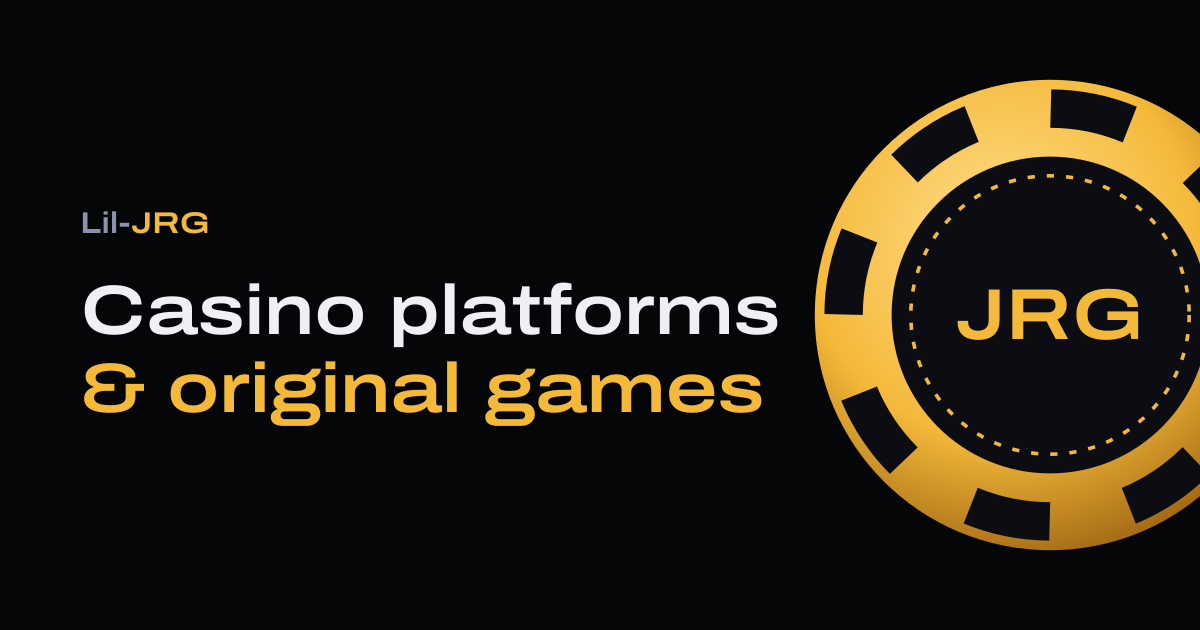
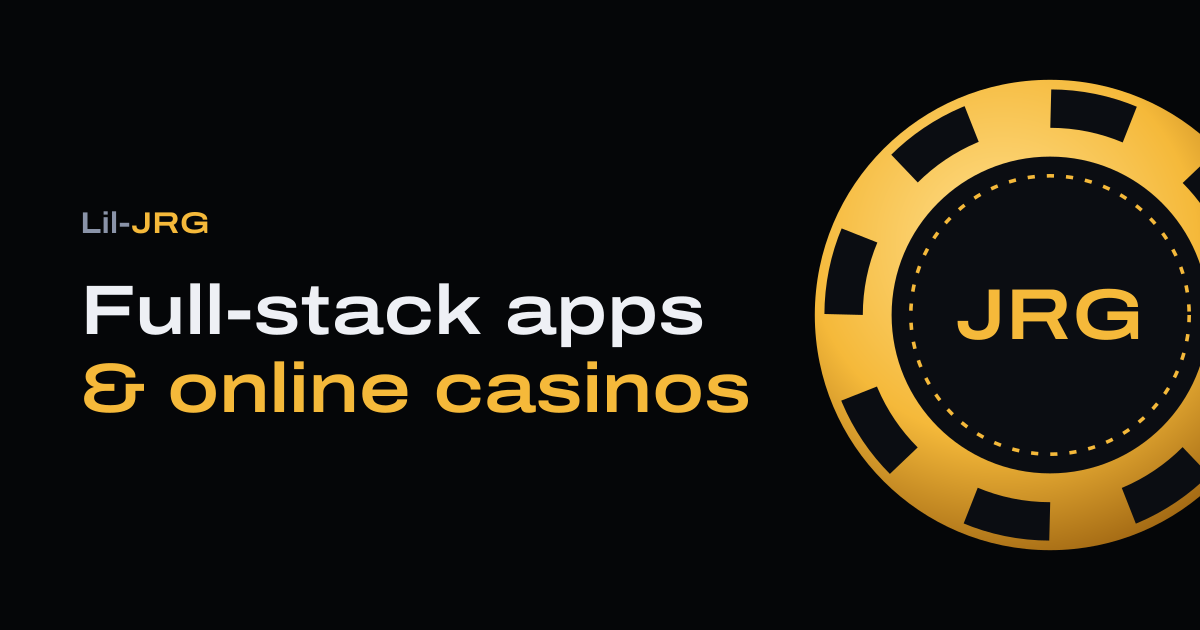
Profile README: full-stack first, casinos as the specialty

Changed region(s): [[0.0617, 0.4524, 0.6475, 0.5429], [0.185, 0.573, 0.6475, 0.6937]]

diff --git a/README.md b/README.md
@@ -1,7 +1,7 @@
-<a href="https://lil-jrg.dev"><img src="assets/banner.png" alt="Lil-JRG: casino platforms and original games" width="100%"></a>
+<a href="https://lil-jrg.dev"><img src="assets/banner.png" alt="Lil-JRG: full-stack apps and online casinos" width="100%"></a>
 
 <p align="center">
-  <a href="https://lil-jrg.dev"><img src="https://readme-typing-svg.demolab.com?font=Archivo&weight=600&size=22&duration=2800&pause=900&color=F5B93A&center=true&vCenter=true&width=520&lines=Original+casino+games;Rounds+players+can+verify;Crypto+cashier+and+live+chat;Admin+panels+your+team+can+run" alt="Original casino games, rounds players can verify, crypto cashier and live chat, admin panels"></a>
+  <a href="https://lil-jrg.dev"><img src="https://readme-typing-svg.demolab.com?font=Archivo&weight=600&size=22&duration=2800&pause=900&color=F5B93A&center=true&vCenter=true&width=520&lines=Full-stack+web+apps;APIs+and+realtime+features;Admin+panels+and+dashboards;Original+casino+games" alt="Full-stack web apps, APIs and realtime features, admin panels and dashboards, original casino games"></a>
 </p>
 
 <p align="center">
@@ -10,9 +10,9 @@
   <a href="https://x.com/lil_jrg"><img src="https://img.shields.io/badge/X-@lil__jrg-EEF0F5?style=for-the-badge&logo=x&logoColor=EEF0F5&labelColor=0B0D12" alt="X: @lil_jrg"></a>
 </p>
 
-I build online casinos end to end: original games, the crypto cashier, live chat and the admin panel behind them.
+Full-stack developer. I build web apps end to end, from the interface to the API and the database: CRMs, ERPs, booking sites, dashboards and realtime features.
 
-Right now I'm building [TreasureGG](https://treasure.gg) front to back, including its Case Battles, Case Opening, Mines, Blackjack and Keno. You can play a Mines round and use the live chat on [my portfolio](https://lil-jrg.dev).
+Lately most of my work is online casinos. Right now I'm building [TreasureGG](https://treasure.gg) front to back: its original games (Case Battles, Case Opening, Mines, Blackjack and Keno), the crypto cashier, live chat and admin panel. You can play a Mines round and use the live chat on [my portfolio](https://lil-jrg.dev).
 
 ### Stack
 
@@ -35,4 +35,4 @@ Most of my work lives in private client repos, so the graph counts those contrib
   <img src="https://raw.githubusercontent.com/LIL-JRG/LIL-JRG/output/snake-light.svg" alt="A snake eating my contribution graph" width="100%">
 </picture>
 
-<sub>Open to freelance work on casino and iGaming platforms. Reach me through the <a href="https://lil-jrg.dev/#contact">contact form</a>.</sub>
+<sub>Open to freelance work on web apps and casino platforms. Reach me through the <a href="https://lil-jrg.dev/#contact">contact form</a>.</sub>
